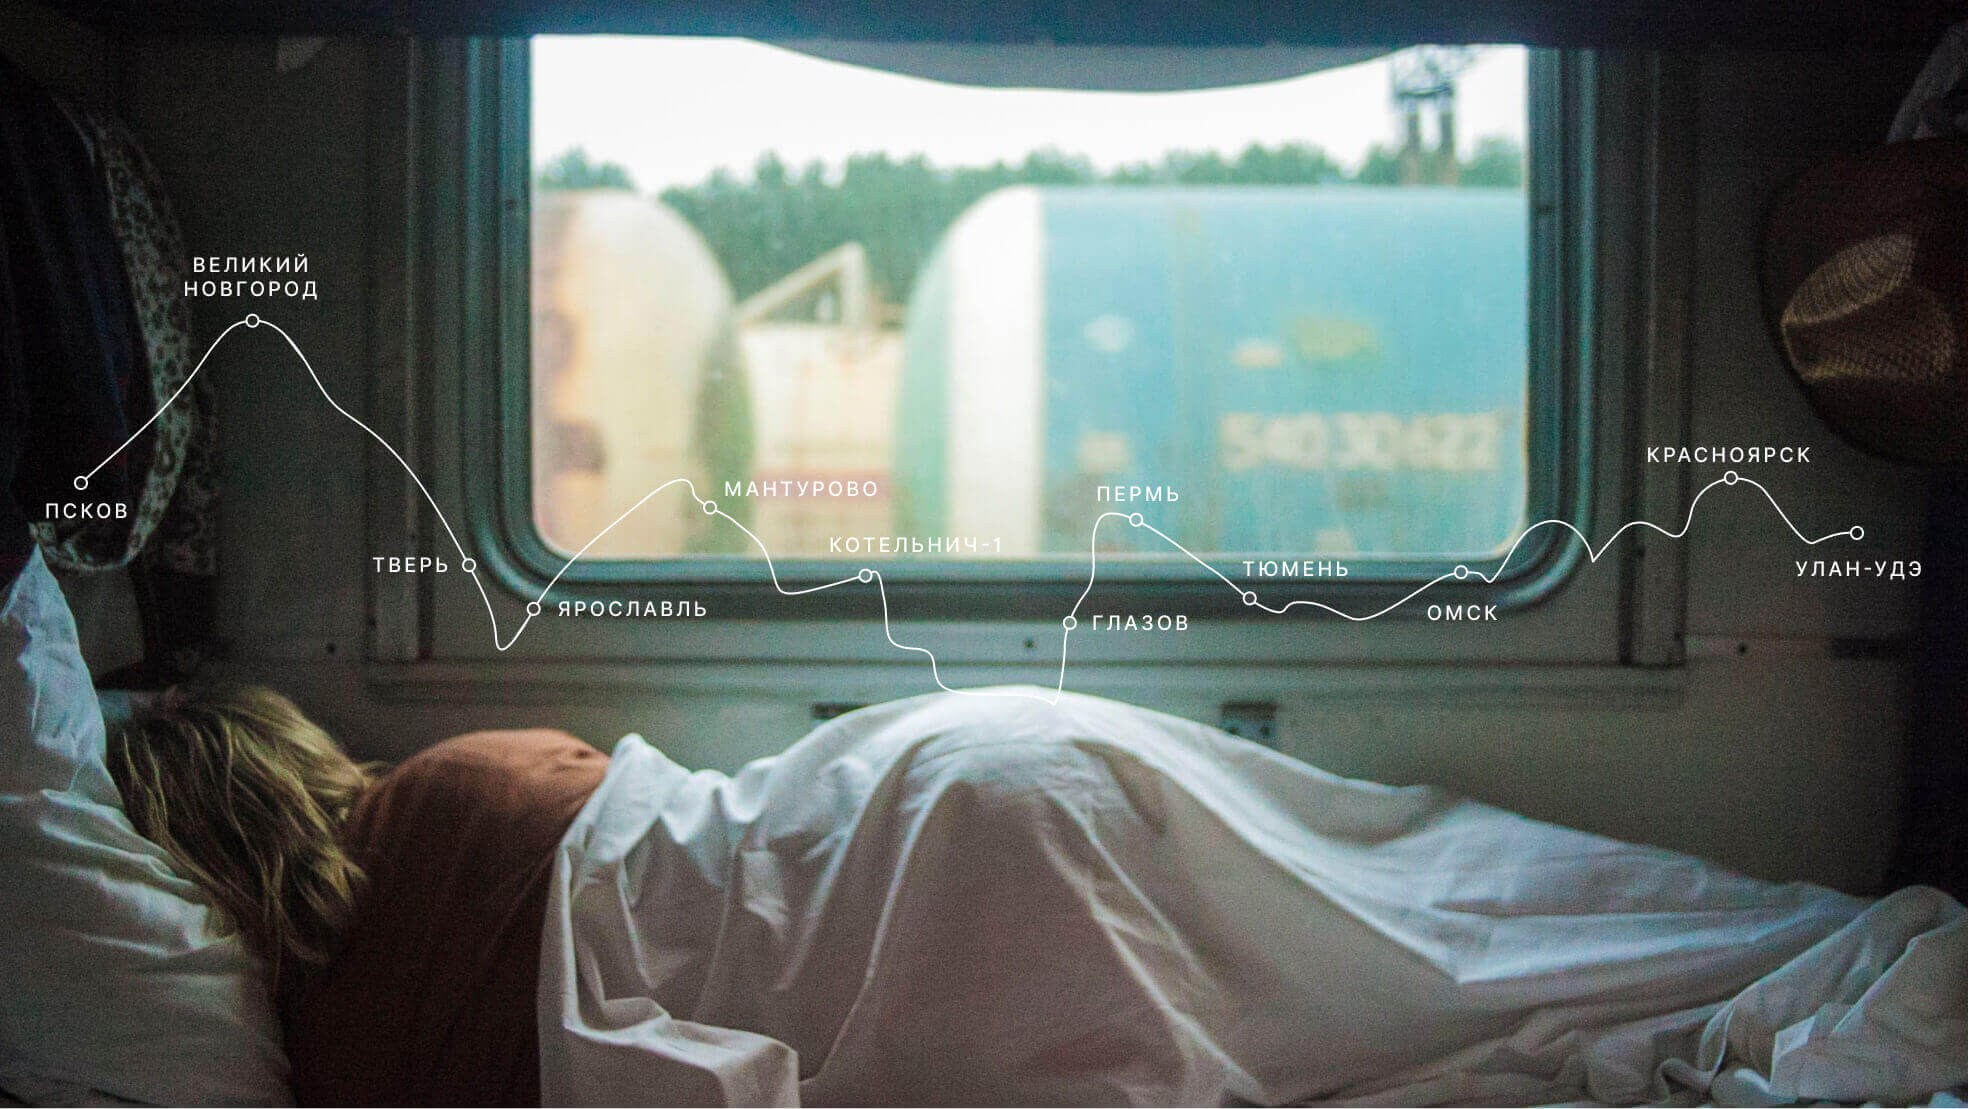
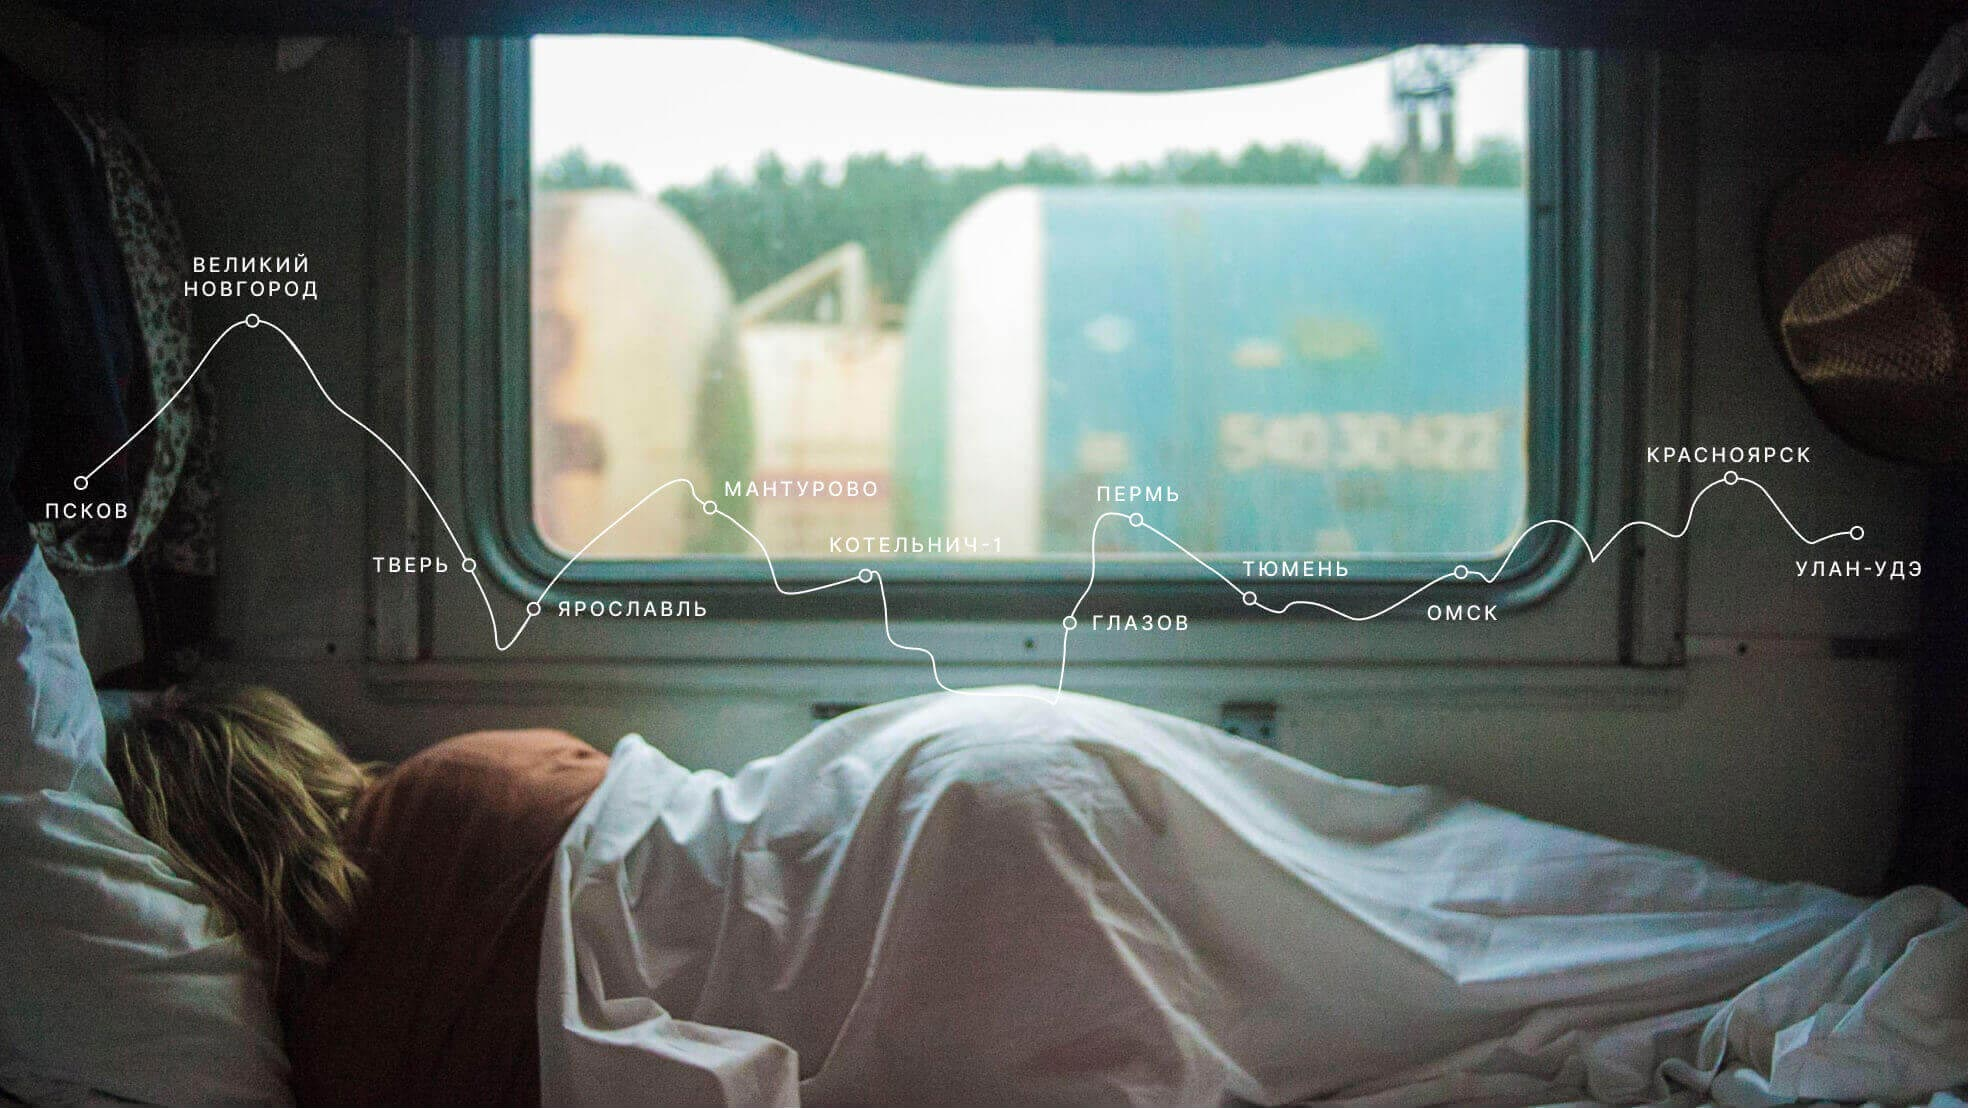
1280+ done

diff --git a/index.html b/index.html
@@ -29,7 +29,7 @@
     <section class="lead">
         <h1 class="lead__title">Путешествия по России</h1>
         <p class="lead__subtitle">Настоящая страна не в выпусках новостей, а здесь.</p>
-        <div><img class="lead__image" src="./images/lead-polka.jpg" alt="Маршрут"></div>
+        <img class="lead__image" src="./images/lead-polka.jpg" alt="Маршрут">
         <p class="lead__caption">ваша полка — верхняя</p>
     </section>
 

diff --git a/blocks/cover/__subtitle/cover__subtitle.css b/blocks/cover/__subtitle/cover__subtitle.css
@@ -7,7 +7,7 @@
     max-width: 360px;
     z-index: 2;
     position: absolute;
-    top: calc(62.5% - 33px);
+    top: calc(43% + 105px);
     left: calc(50% - 180px);
     color: white;
 }

diff --git a/blocks/cover/__title/cover__title.css b/blocks/cover/__title/cover__title.css
@@ -8,6 +8,6 @@
     text-align: center;
     z-index: 2;
     position: absolute;
-    top: calc(43% - 76px);
+    top: calc(43% - 75px);
     left: calc(50% - 280px);
 }

diff --git a/blocks/lead/__caption/lead__caption.css b/blocks/lead/__caption/lead__caption.css
@@ -1,5 +1,5 @@
 .lead__caption {
-    margin-top: 8px;
+    margin: 8px 0 0 0;
     font-size: 10px;
     font-weight: normal;
     line-height: 1.4;

diff --git a/blocks/lead/__image/lead__image.css b/blocks/lead/__image/lead__image.css
@@ -1,4 +1,4 @@
 .lead__image {
     max-width: 100%;
-    object-fit: fill;
+    object-fit: fill; 
 }
